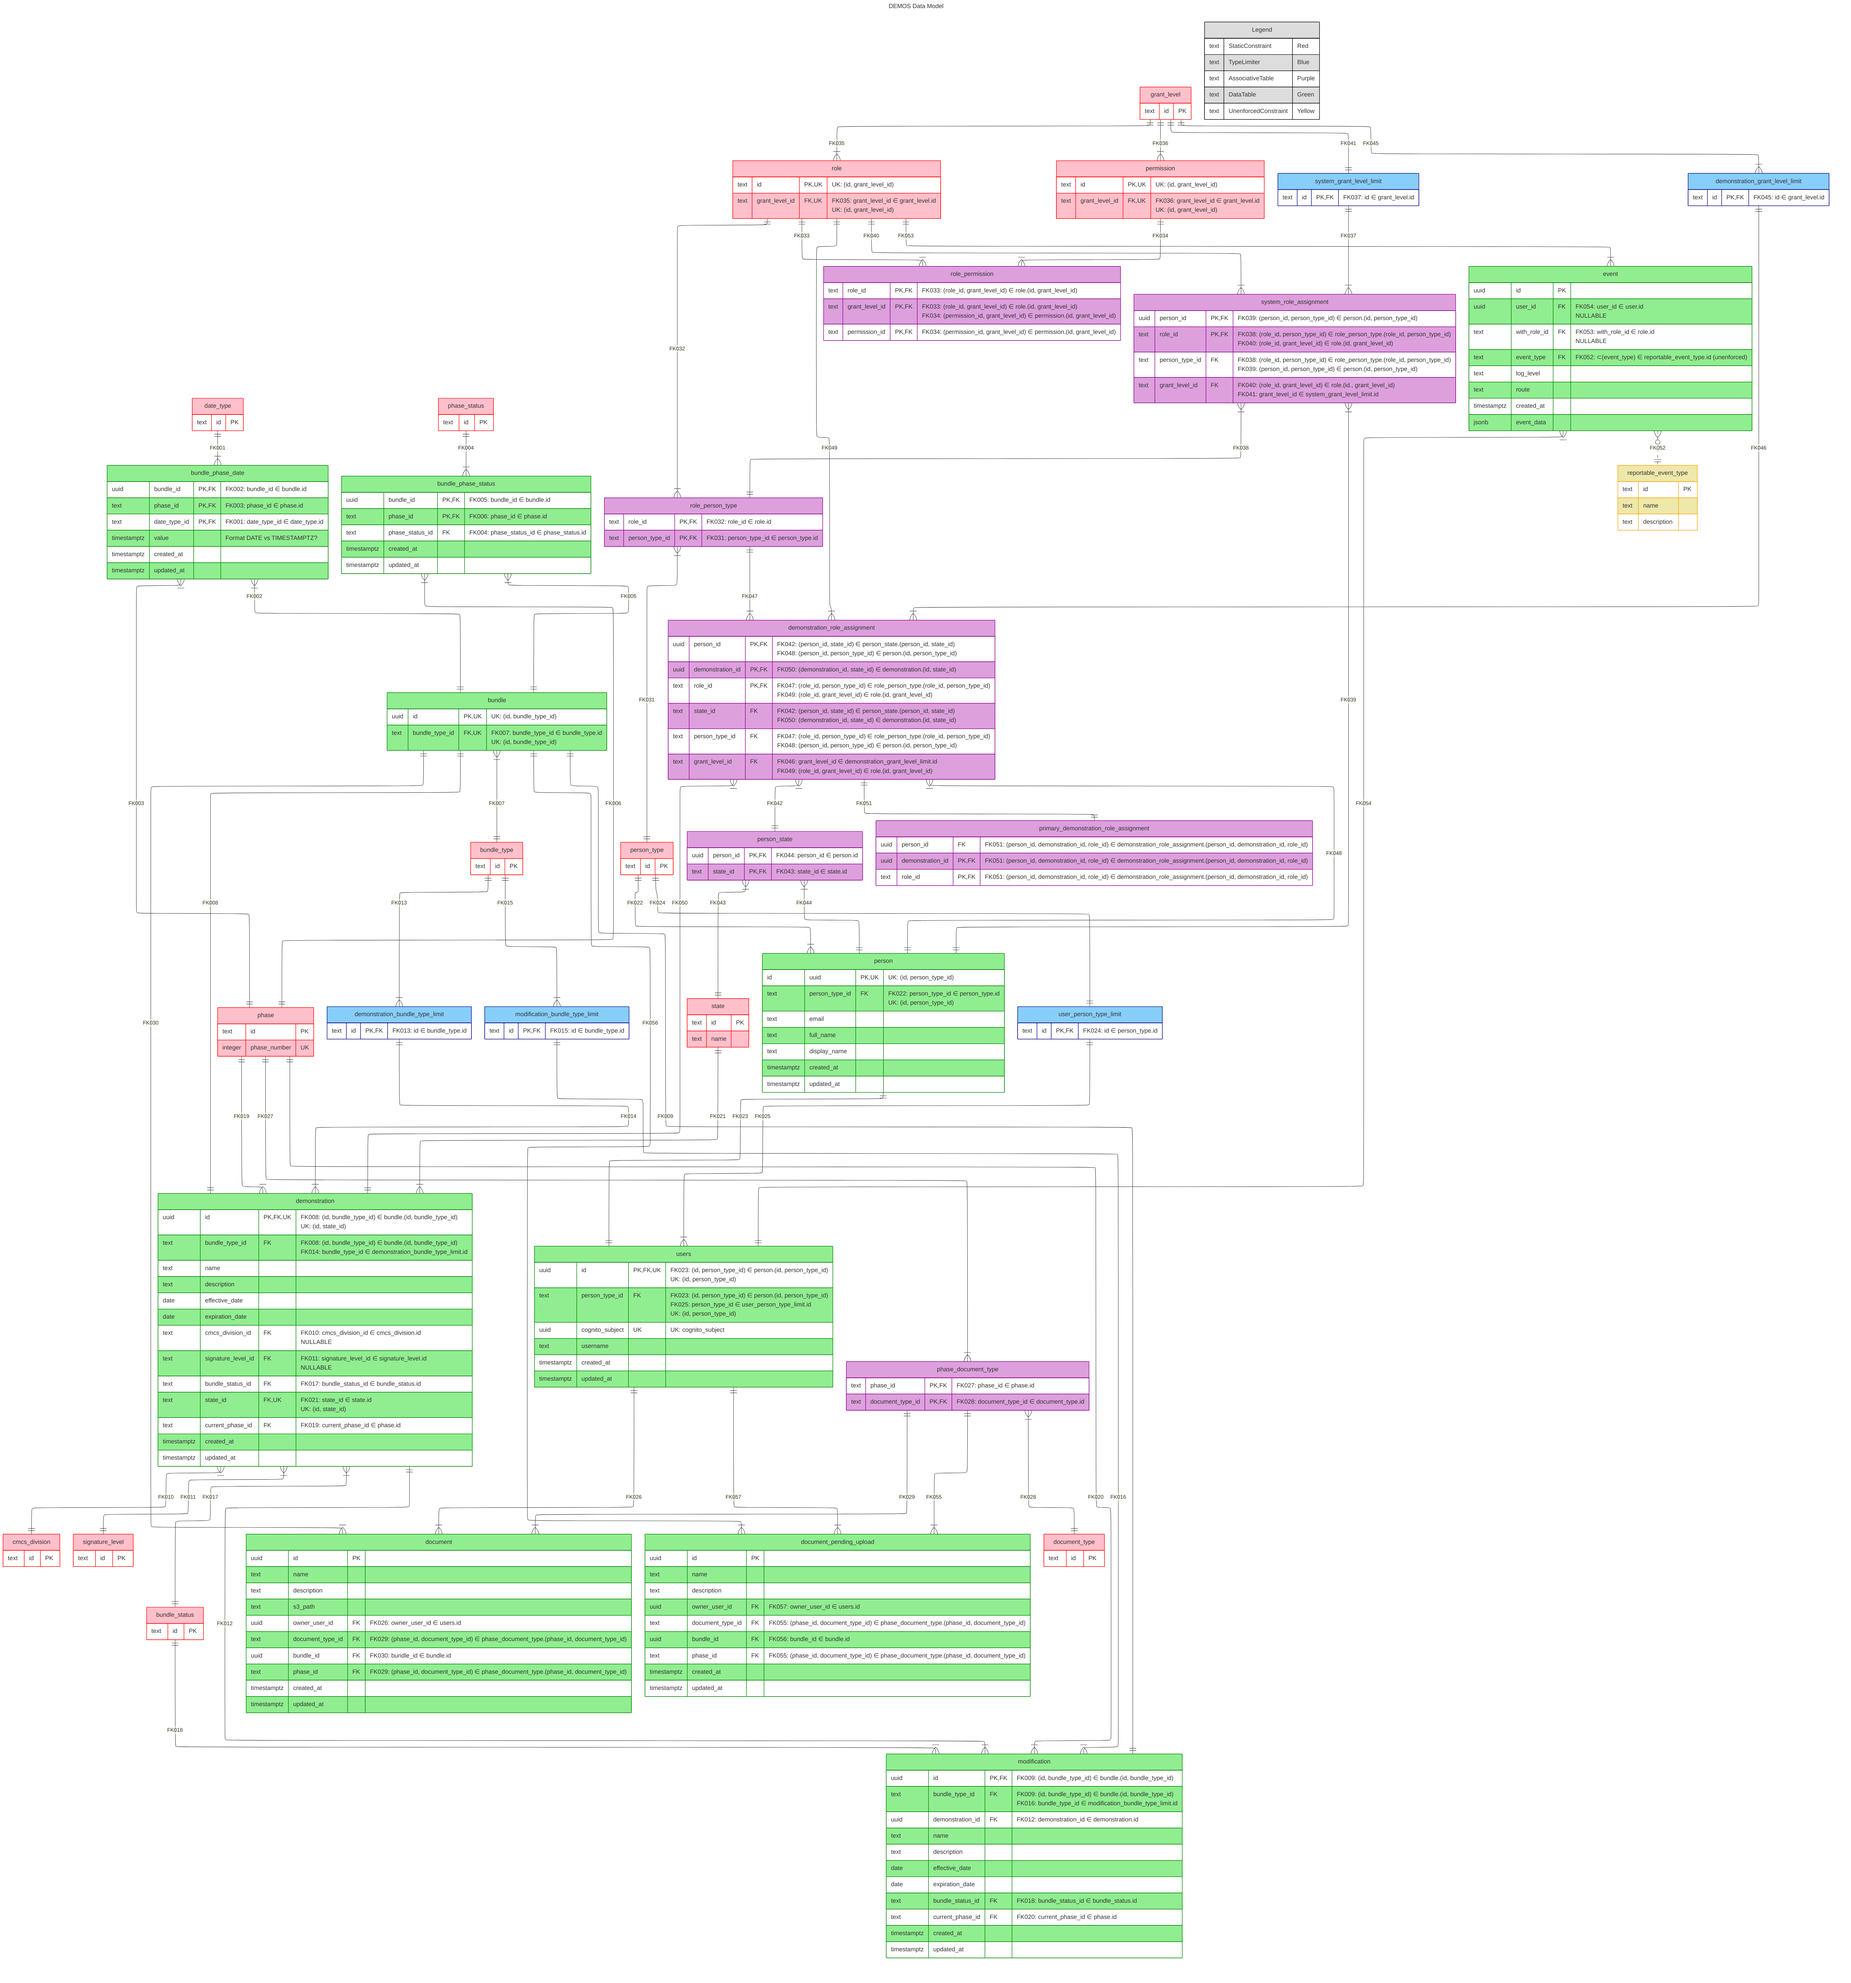
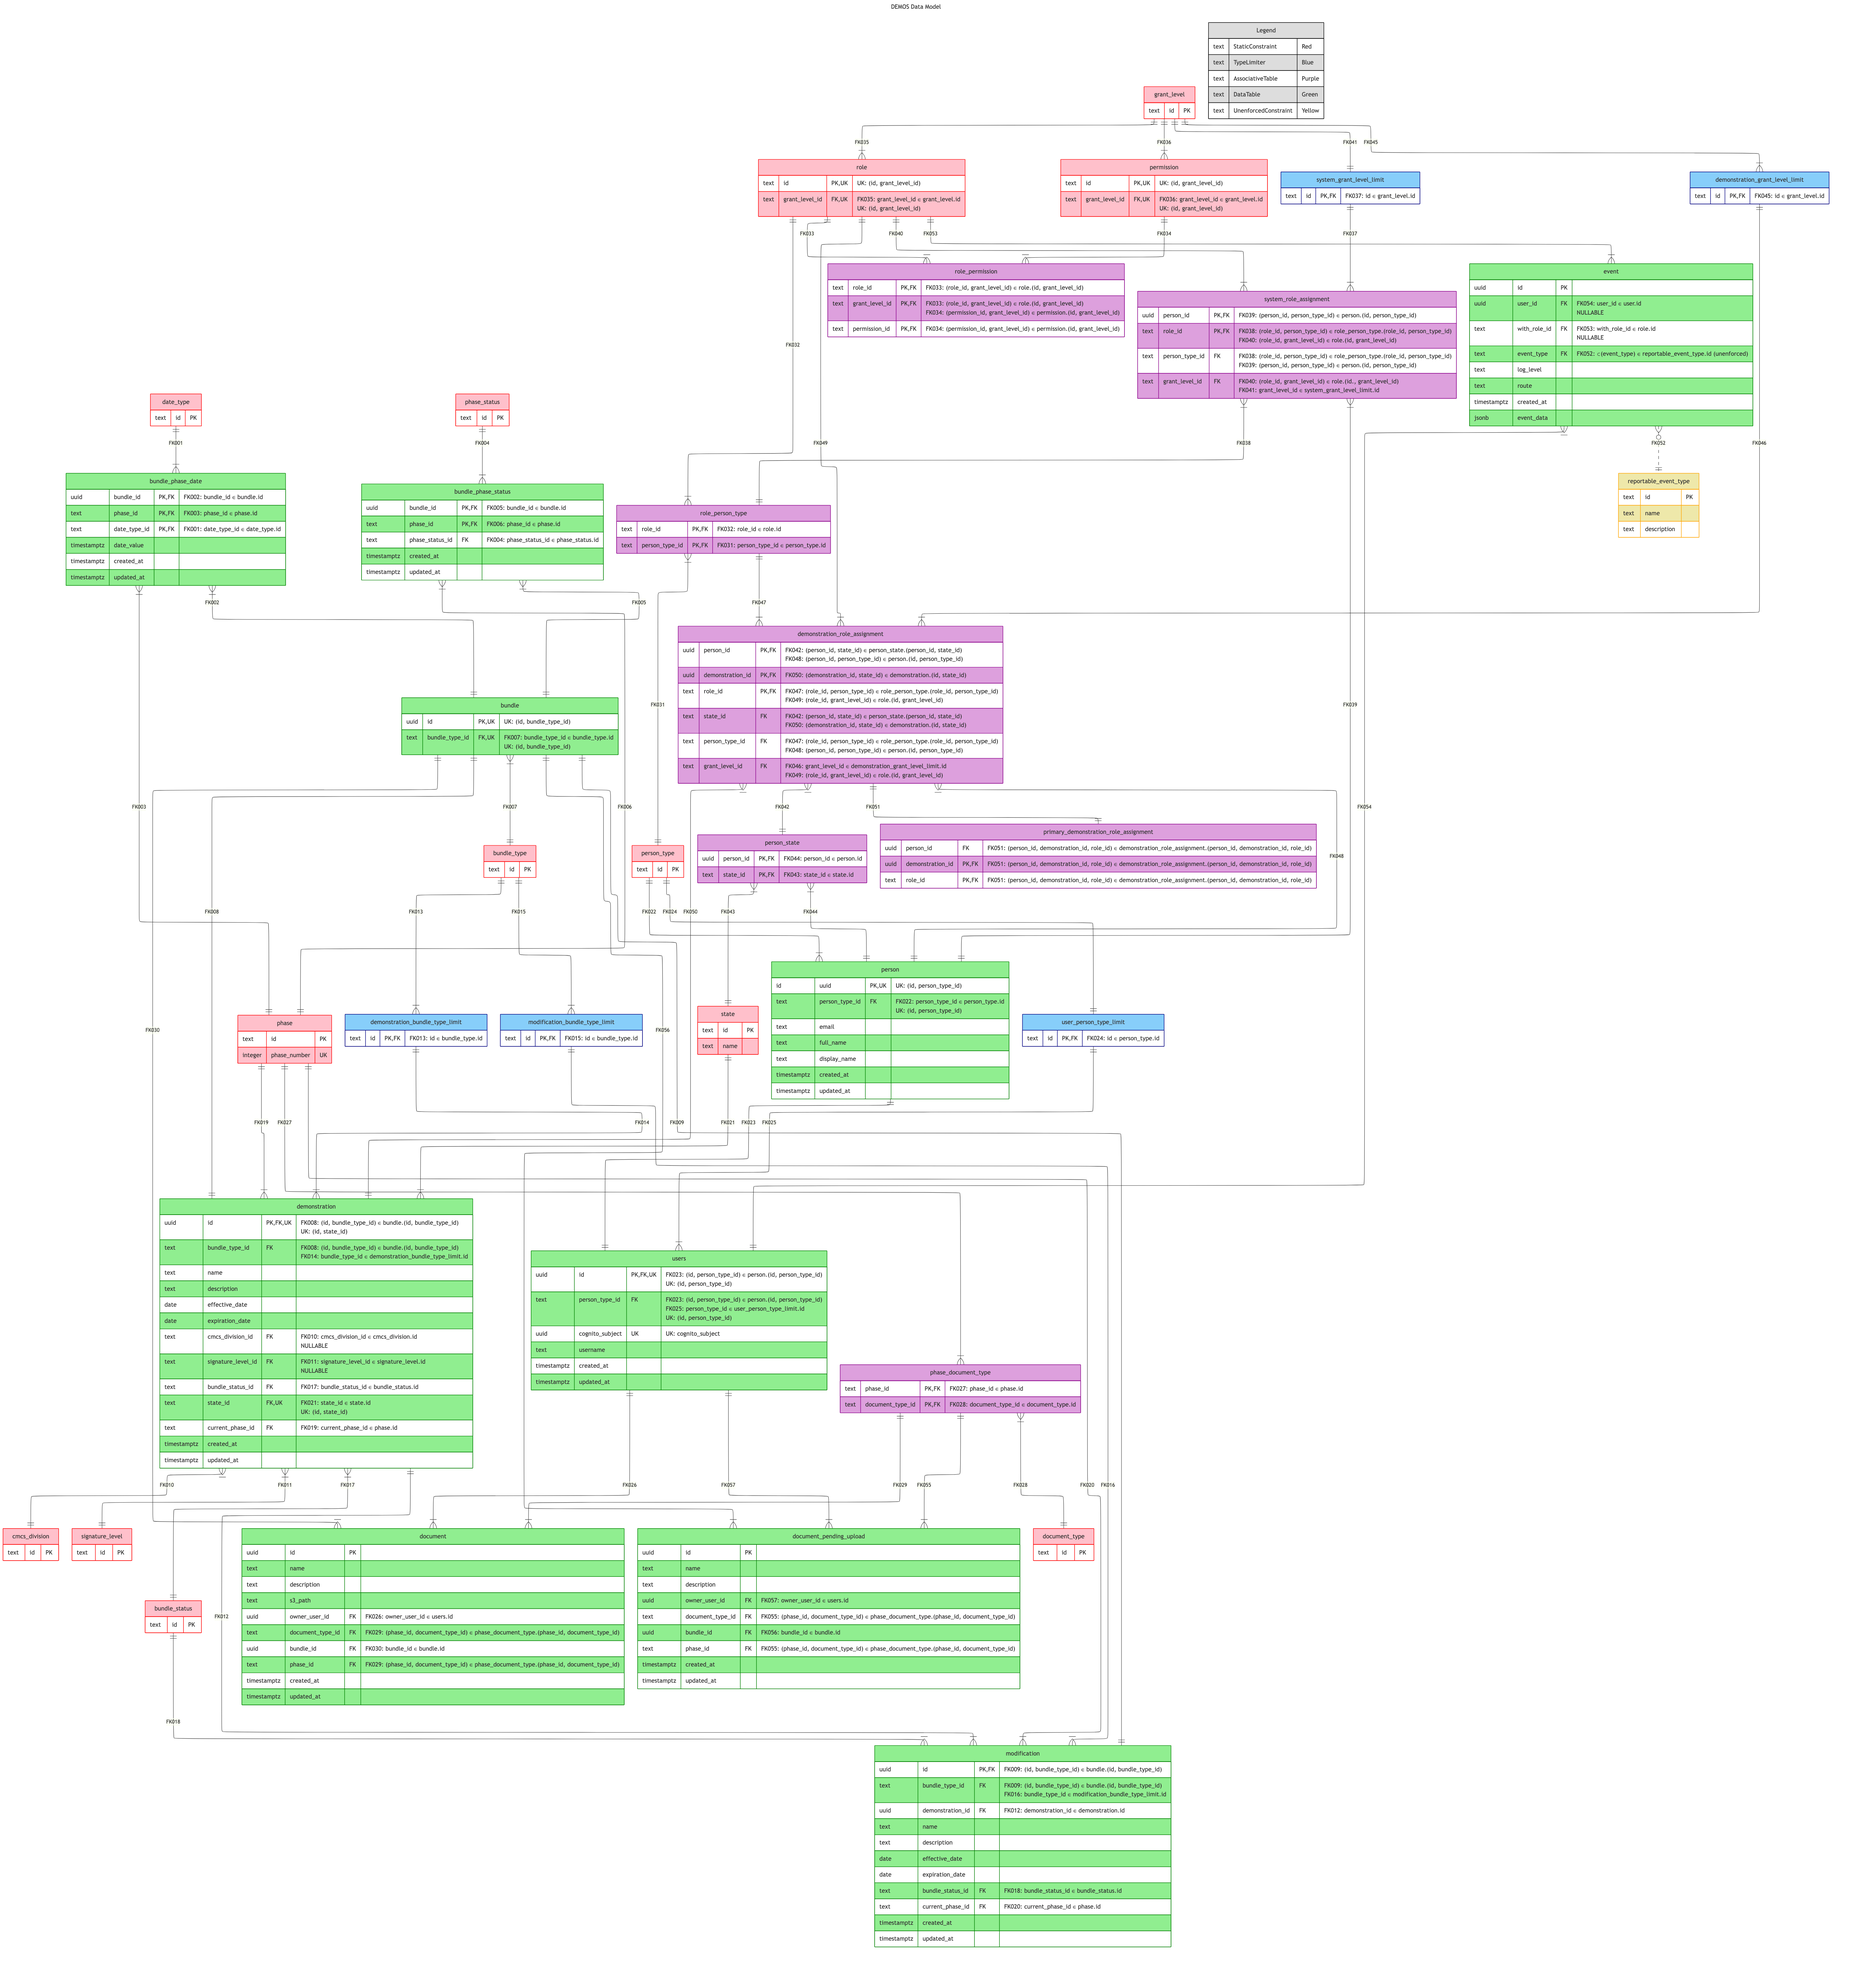
Adds the database side for the phase dates, including a trigger to create the start date for the concept phase when a bundle is created.

diff --git a/server/src/model/graphql.ts b/server/src/model/graphql.ts
@@ -1,5 +1,7 @@
 import { gql } from "graphql-tag";
 
+import { dateTypeSchema } from "./dateType/dateTypeSchema.js";
+
 import { demonstrationSchema } from "./demonstration/demonstrationSchema.js";
 import { demonstrationResolvers } from "./demonstration/demonstrationResolvers.js";
 
@@ -18,6 +20,7 @@ import { modificationResolvers } from "./modification/modificationResolvers.js";
 import { modificationStatusResolvers } from "./modificationStatus/modificationStatusResolvers.js";
 
 import { phaseSchema } from "./phase/phaseSchema.js";
+
 import { phaseStatusSchema } from "./phaseStatus/phaseStatusSchema.js";
 
 import { stateSchema } from "./state/stateSchema.js";
@@ -62,6 +65,7 @@ const mockDemonstrationResolverExtension = {
 };
 
 export const typeDefs = [
+  dateTypeSchema,
   demonstrationSchema,
   demonstrationStatusSchema,
   documentSchema,

diff --git a/server/src/constants.ts b/server/src/constants.ts
@@ -44,16 +44,18 @@ export const DOCUMENT_TYPES = [
   "State Application",
 ] as const;
 
-export const PHASE = [
-  "None",
-  "Concept",
-  "State Application",
-  "Completeness",
-] as const;
+export const PHASE = ["None", "Concept", "State Application", "Completeness"] as const;
 
-export const PHASE_STATUS = [
-  "Not Started",
-  "Started",
-  "Completed",
-  "Skipped",
-] as const;
+export const PHASE_STATUS = ["Not Started", "Started", "Completed", "Skipped"] as const;
+
+export const DATE_TYPES = [
+  "Start Date",
+  "Completion Date",
+  "Pre-Submission Submitted Date",
+  "State Application Submitted Date",
+  "Completeness Review Due Date",
+  "Completeness Due Date",
+  "State Application Deemed Complete",
+  "Federal Comment Period Start Date",
+  "Federal Comment Period End Date",
+];

diff --git a/server/src/types.ts b/server/src/types.ts
@@ -8,6 +8,7 @@ import {
   PERSON_TYPES,
   GRANT_LEVELS,
   ROLES,
+  DATE_TYPES,
 } from "./constants.js";
 
 export type { CreateUserInput, UpdateUserInput, User } from "./model/user/userSchema.js";
@@ -61,3 +62,4 @@ export type PhaseStatus = (typeof PHASE_STATUS)[number];
 export type PersonType = (typeof PERSON_TYPES)[number];
 export type GrantLevel = (typeof GRANT_LEVELS)[number];
 export type Role = (typeof ROLES)[number];
+export type DateType = (typeof DATE_TYPES)[number];

diff --git a/server/src/model/dateType/dateTypeSchema.ts b/server/src/model/dateType/dateTypeSchema.ts
@@ -1,0 +1,17 @@
+import gql from "graphql-tag";
+
+export const dateTypeSchema = gql`
+  """
+  A string representing a kind of date for a phase. Acceptable values are:
+  - Start Date
+  - Completion Date
+  - Pre-Submission Submitted Date
+  - State Application Submitted Date
+  - Completeness Review Due Date
+  - Completeness Due Date
+  - State Application Deemed Complete
+  - Federal Comment Period Start Date
+  - Federal Comment Period End Date
+  """
+  scalar DateType
+`;

diff --git a/data/utilities/scripts/history_trigger_generator.py b/data/utilities/scripts/history_trigger_generator.py
@@ -7,6 +7,7 @@ from typing import List
 
 TBL_FOLDERS = [
     "bundle",
+    "bundlePhaseDate",
     "bundlePhaseStatus",
     "demonstration",
     "demonstrationStatus",
